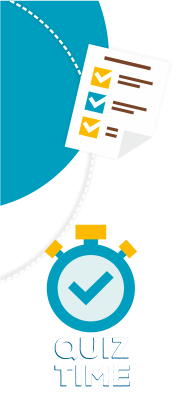
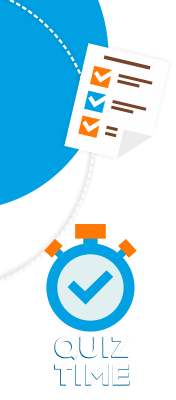
index page

diff --git a/frontend/views/quizzes/quiz-detail.php b/frontend/views/quizzes/quiz-detail.php
@@ -41,6 +41,28 @@ $link = Url::to('quizzes/' . $slug, true);
                     </div>
                     <div class="viewers"></div>
                 </div>
+                <div class="share-social-links">
+                    <a href="javascript:;" class="fb"
+                       onclick="window.open('https://www.facebook.com/sharer/sharer.php?u=' + window.location.href, '_blank', 'width=800,height=400,left=200,top=100');">
+                        <i class="fab fa-facebook-f"></i></a>
+                    <a href="javascript:;" class="wts-app"
+                       onclick="window.open('https://api.whatsapp.com/send?text=' + window.location.href, '_blank', 'width=800,height=400,left=200,top=100');">
+                        <i class="fab fa-whatsapp"></i></a>
+                    <a href="javascript:;" class="tw"
+                       onclick="window.open('https://twitter.com/intent/tweet?text=' + window.location.href, '_blank', 'width=800,height=400,left=200,top=100');">
+                        <i class="fab fa-twitter"></i></a>
+                    <a :href="'mailto:https://myecampus.in'+this.$route.fullPath" class="male">
+                        <i class="far fa-envelope"></i></a>
+                    <a href="javascript:;" class="fb"
+                       onclick="window.open('https://www.linkedin.com/shareArticle?mini=true&amp;url=' + window.location.href, '_blank', 'width=800,height=400,left=200,top=100');">
+                        <i class="fab fa-linkedin"></i></a>
+                    <a href="javascript:;" class="male"
+                       onclick="window.open('http://pinterest.com/pin/create/link/?url=' + window.location.href, '_blank', 'width=800,height=400,left=200,top=100');">
+                        <i class="fab fa-pinterest"></i></a>
+                    <a href="javascript:;" class="tw"
+                       onclick="window.open('https://telegram.me/share/url?url=' + window.location.href, '_blank', 'width=800,height=400,left=200,top=100');">
+                        <i class="fab fa-telegram"></i></a>
+                </div>
             </div>
             <div class="col-md-4">
                 <div class="row">
@@ -118,6 +140,54 @@ $link = Url::to('quizzes/' . $slug, true);
 
 <?php
 $this->registerCss('
+.share-social-links {
+    display: flex;
+    justify-content: space-evenly;
+    align-items: center;
+    flex-wrap: wrap;
+}
+
+.share-social-links > a {
+    min-width: 90px;
+    margin: 15px 1% 0 0;
+}
+
+.share-social-links > a:last-child {
+    margin-right: 0;
+}
+
+.wts-app {
+    background-color: #25D366;
+}
+
+.male {
+    background-color: #d3252b;
+}
+
+.tw {
+    background-color: #1c99e9;
+}
+
+.fb {
+    background-color: #236dce;
+}
+
+.wts-app i, .male i, .tw i, .fb i {
+    color: #fff;
+    font-size: 20px;
+    cursor: pointer;
+    width: 100%;
+    text-align: center;
+    padding: 10px 0;
+}
+
+.share-social-links:hover a {
+    opacity: 0.6;
+}
+
+.share-social-links > a:hover {
+    opacity: 1;
+}
 #quizCounter, .ask-people{
     display: none;
 }
@@ -208,11 +278,12 @@ $this->registerCss('
     bottom: 0;
 }
 .quiz-header-heading p {
-    font-size: 20px;
+    font-size: 26px;
     font-family: "Roboto";
-    color: #009ebe;
+    color: #00a0e3;
     margin:0;
-    text-transform: capitalize
+    text-transform: capitalize;
+    font-weight: 500;
 }
 .quiz-header-heading img {
     width: 100px;
@@ -230,11 +301,11 @@ $this->registerCss('
 .quiz-timings-cover {
     display: flex;
     align-items: center;
-    border: 2px solid #009ebe;
+    border: 2px solid #00a0e3;
     border-radius: 4px;
     flex-wrap: wrap;
     justify-content: center;
-    background: #009ebe;
+    background: #00a0e3;
     padding: 8px 0;
     margin:15px 0;
 }
@@ -246,7 +317,7 @@ $this->registerCss('
     color: #fff;
 }
 .reg-deadline i, .days-left2 i {
-    color: #fbba00;
+    color: #ff7803;
     margin-right:2px;
 }
 .register-detail-btn-2 a,
@@ -260,7 +331,7 @@ $this->registerCss('
     border-radius: 4px;
     margin: 0;
     background-color: #fff;
-    color: #009ebe;
+    color: #00a0e3;
     padding: 4px 0;
 }
 .both-btns {
@@ -279,9 +350,10 @@ $this->registerCss('
 }
 .quiz-detail-cat {
     font-family: "Roboto";
-    color: #fbba00 !important;
+    color: #ff7803 !important;
     text-transform: capitalize;
-    font-size: 16px !important;
+    font-size: 20px !important;
+    font-weight: 500;
 }
 .quiz-description {
     font-family: "Roboto";
@@ -556,10 +628,10 @@ $this->registerJsFile('@backendAssets/global/plugins/bootstrap-sweetalert/sweeta
 ?>
 <script>
     let baseUrl = '';
-    // let winLocation = window.location.hostname;
-    // if(winLocation == 'shshank.eygb.me'){
-    //     baseUrl = 'https://ravinder.eygb.me';
-    // }
+    let winLocation = window.location.hostname;
+    if(winLocation == 'shshank.eygb.me'){
+        baseUrl = 'https://ravinder.eygb.me';
+    }
     let isLoggedIn = '<?= Yii::$app->user->identity->user_enc_id ? Yii::$app->user->identity->user_enc_id : "false" ?>';
     let quiz_id = null;
     let access_key = '<?= Yii::$app->params->razorPay->prod->apiKey ?>';
@@ -637,17 +709,10 @@ $this->registerJsFile('@backendAssets/global/plugins/bootstrap-sweetalert/sweeta
 
             document.querySelector('.quiz-header-heading').innerHTML = header;
 
-            const quizBody = ` <h3 class="quiz-title">${detail.name}</h3>
-                        <p class="quiz-detail-cat">${detail.category}</p>
+            const quizBody = ` <h3 class="quiz-title">Description</h3>
                         <div class="quiz-description">${detail.description}</div>`;
 
             document.querySelector('.detail-side').innerHTML = quizBody;
-
-            const registerDetailBtn = `${(currentDate > regEnd && detail.is_expired == 'false') ? `<p class="registeredTxt">Registration Closed</p>` : detail.is_expired == 'true' ? `<p class="registeredTxt">Expired</p>` : detail.is_registered  ? `<p class="registeredTxt">Registered</p>` :
-                `<a href="javascript:;" class="regBtn" ${isLoggedIn == 'false' ? `data-toggle="modal" data-target="#loginModal"`
-                    : `onclick="quizRegister('${detail.quiz_enc_id}')"`}>Register Now</a>`}`;
-
-            document.querySelector('.register-detail-btn').innerHTML = registerDetailBtn;
 
             const quizDetail = `${registrationEndDate ? `
                                     <div class="register-dead block-span">

diff --git a/frontend/controllers/QuizzesController.php b/frontend/controllers/QuizzesController.php
@@ -26,9 +26,8 @@ class QuizzesController extends Controller
         return parent::beforeAction($action);
     }
 
-    public function actionIndex($type = null)
+    public function actionList()
     {
-        return $this->actionList();
         if ($type == null) {
             $categories = AssignedCategories::find()
                 ->alias('a')
@@ -338,7 +337,7 @@ class QuizzesController extends Controller
         return $this->render('topics');
     }
 
-    public function actionList(){
+    public function actionIndex($type = null){
         return $this->render('quiz-filters');
     }
 

diff --git a/frontend/views/quizzes/quiz-filters.php b/frontend/views/quizzes/quiz-filters.php
@@ -426,10 +426,10 @@ $this->registerCssFile('@eyAssets/css/perfect-scrollbar.css');
 ?>
 <script>
     let baseUrl = '';
-    // let winLocation = window.location.hostname;
-    // if(winLocation == 'shshank.eygb.me'){
-    //     baseUrl = 'https://ravinder.eygb.me';
-    // }
+    let winLocation = window.location.hostname;
+    if(winLocation == 'shshank.eygb.me'){
+        baseUrl = 'https://ravinder.eygb.me';
+    }
     let allquizzes = null;
     let allCategories = null
     let pageNo = 1;
